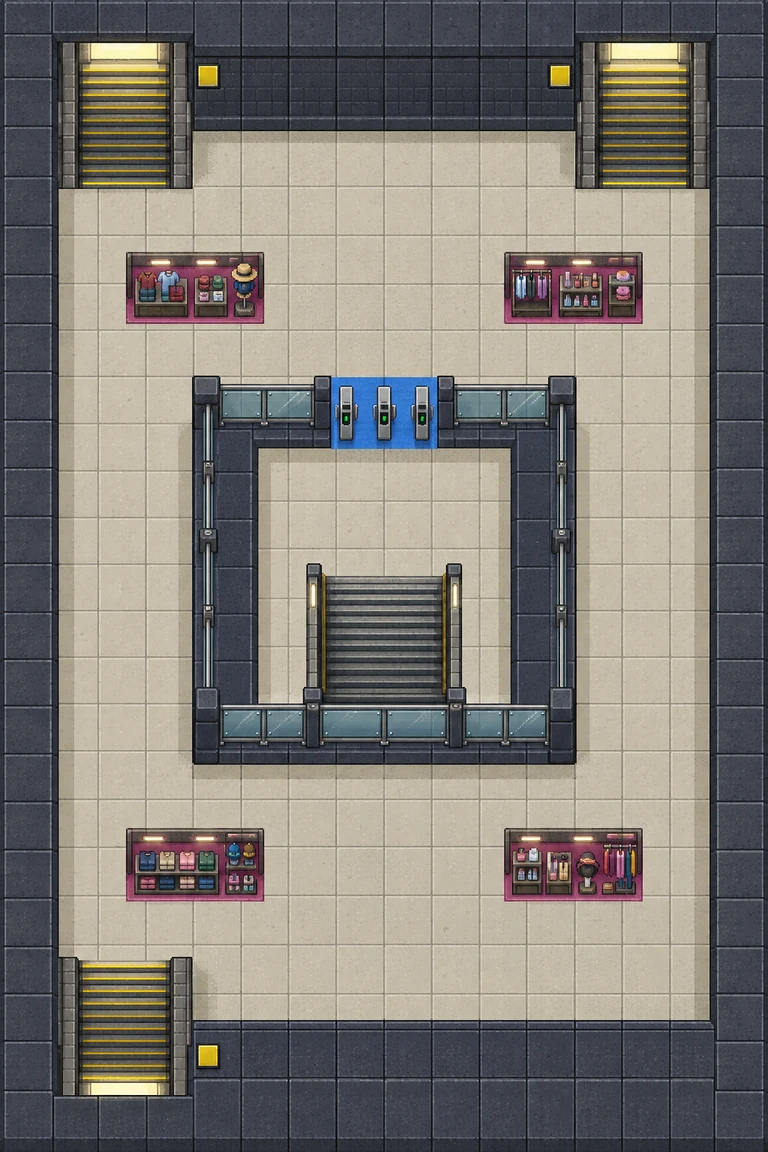
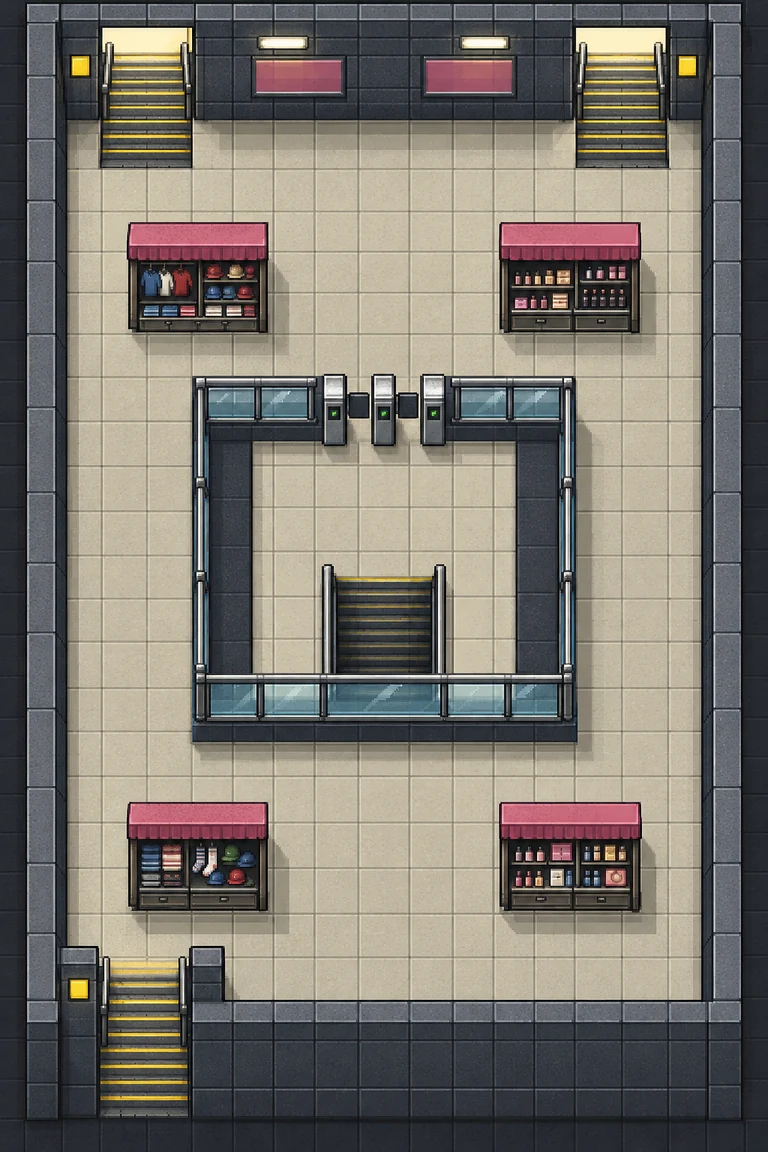
Walking test: maps redrawn in a 3/4 top-down view, four-frame walk cycles

diff --git a/docs/walk/main.js b/docs/walk/main.js
@@ -15,11 +15,13 @@ const canvas = $("map"), ctx = canvas.getContext("2d");
 const COLS = 12, ROWS = 18, TILE = canvas.width / COLS;
 const SPEED = 5.5;          // 1초에 걷는 칸
 const WRONG_MS = 2600;      // 틀린 출구의 바깥을 보여 주는 동안
+const FRAMES = 4, FRAME_MS = 130, STAND = 1;   // 걷는 동작의 컷 수, 한 컷의 길이, 서 있을 때의 컷
 
 const load = (src) => new Promise((done) => { const image = new Image(); image.onload = () => done(image); image.onerror = () => done(null); image.src = src; });
 const art = {
   station: await load("art/station.webp"), street: await load("art/street.webp"),
-  down: await load("art/yui-down.png"), up: await load("art/yui-up.png"), side: await load("art/yui-side.png"),
+  // 걷는 동작. 한 장에 네 컷이 가로로 놓여 있다: 한 발 내딛기, 두 발 모음, 다른 발 내딛기, 두 발 모음.
+  down: await load("art/walk-down.png"), up: await load("art/walk-up.png"), side: await load("art/walk-side.png"),
 };
 const params = new URLSearchParams(location.search);
 const showGrid = params.has("grid");
@@ -154,16 +156,17 @@ function draw(now) {
     ctx.setLineDash([]);
   }
 
-  // 유이. 발이 칸의 한가운데 조금 아래에 놓인다. 걸을 때는 두 걸음에 한 번 통통 뛴다.
+  // 유이. 발이 칸의 한가운데 조금 아래에 놓인다. 걸을 때는 네 컷을 차례로 돌린다.
   const sprite = art[state.face === "up" ? "up" : state.face === "down" ? "down" : "side"];
-  const cx = (state.x + 0.5) * TILE, feet = (state.y + 0.85) * TILE - (state.way.length ? Math.abs(Math.sin(now / 90)) * 5 : 0);
+  const cx = (state.x + 0.5) * TILE, feet = (state.y + 0.85) * TILE;
   ctx.fillStyle = "rgba(0, 0, 0, .28)";
   ctx.beginPath(); ctx.ellipse(cx, (state.y + 0.85) * TILE, TILE * 0.3, TILE * 0.11, 0, 0, Math.PI * 2); ctx.fill();
   if (sprite) {
-    const height = TILE * 1.7, width = (sprite.width / sprite.height) * height;
+    const cut = sprite.width / FRAMES, height = TILE * 1.7, width = (cut / sprite.height) * height;
+    const at = state.way.length ? Math.floor(now / FRAME_MS) % FRAMES : STAND;
     ctx.save(); ctx.translate(cx, feet);
     if (state.face === "right") ctx.scale(-1, 1);   // 옆모습의 그림은 왼쪽을 본다
-    ctx.drawImage(sprite, -width / 2, -height, width, height);
+    ctx.drawImage(sprite, at * cut, 0, cut, sprite.height, -width / 2, -height, width, height);
     ctx.restore();
   } else {
     ctx.fillStyle = "#6ec3f0"; ctx.fillRect(cx - TILE * 0.25, feet - TILE, TILE * 0.5, TILE);

diff --git a/docs/walk/core/walk.js b/docs/walk/core/walk.js
@@ -1,7 +1,7 @@
 // 걷기 시험판의 셈. 화면과 브라우저를 모른다. 지도는 maps.json 에서 받는다.
 // 한 글자가 한 칸이다. 유이는 칸에서 칸으로 걷고, 닿은 칸의 글자가 일을 일으킨다.
 
-export const BLOCKED = "#scC";
+export const BLOCKED = "#scCe";
 export const EXITS = "368";
 
 export const tileAt = (map, x, y) => map.rows[y]?.[x] ?? "#";

diff --git a/docs/art-order-10.md b/docs/art-order-10.md
@@ -13,7 +13,7 @@
 |---|---|---|
 | `station` | 명동역 지하 대합실의 지도. 1024×1536(세로) | 배치도 `station-plan.png` |
 | `street` | 명동 거리의 지도. 1024×1536(세로) | 배치도 `street-plan.png` |
-| `yui-walk` → `yui-down`, `yui-up`, `yui-side` | 유이의 앞모습, 뒷모습, 옆모습. 자홍 바탕의 한 장을 세로로 셋으로 잘랐다 | `yui-j1.png` |
+| `yui-walk` | 유이의 앞모습, 뒷모습, 옆모습의 선 모습. 걷는 동작(3-1절)의 참고 그림으로 썼고 게임에는 걷는 동작을 쓴다 | `yui-j1.png` |
 
 ## 2. 배치도를 넣어 지도를 받는 법
 
@@ -33,6 +33,25 @@
 | 유이가 `yui-j1` 과 같은 아이인가 | 그렇다. 하늘색 겉옷, 꿀빛 단발, 빨간 머리핀과 배낭과 운동화 |
 | 옆모습이 오른쪽을 보는가 | **아니다.** 왼쪽을 보고 왔다. 게임이 오른쪽으로 갈 때 뒤집어 쓴다 |
 | 걷는 동작이 있는가 | 없다. 선 모습 셋뿐이고, 걸을 때는 게임이 통통 뛰게 한다. 걷는 동작은 시험판이 쓸 만하다고 정해지면 주문한다 |
+
+## 3-1. 같은 날 다시 받은 것: 시점과 걷는 동작
+
+**지도 두 장을 비스듬한 탑뷰로 다시 받았다.** 사용자가 처음의 역 지도를 보고 짚었다: "이건 쿼터뷰도 아니고, 탑뷰도 아니고, 어느 나라 어느 시점 뷰야?" 바닥과 벽은 도면처럼 바로 위에서 본 것이고 가게와 개찰기와 유이는 정면에서 본 것이라 어긋나 있었다. 처음의 주문이 "배치도를 한 칸도 옮기지 말고"만 세게 적고 시점은 "바로 위에서 조금 비스듬히"라고만 적은 탓이다.
+
+새 앞머리(`assets/codex/order10/_head2.txt`)는 시점을 맨 앞에 적는다. 뼈대는 이렇다.
+
+- 옛 16비트 RPG의 비스듬한 탑뷰(3/4 뷰). 카메라가 아래쪽(남쪽) 하늘에서 위쪽(북쪽)을 비스듬히 내려다본다.
+- 바닥은 정사각 격자 그대로. 쿼터뷰(마름모 타일)가 아니다.
+- 높이가 있는 것은 윗면과 남쪽을 향한 앞면이 함께 보인다. 위쪽 벽은 벽면이 높게 서 있고, 아래쪽 벽은 윗면만 얇게 보인다.
+- 따로 선 것(가게, 수레, 개찰기, 난간)은 상자꼴이고 아래쪽 바닥에 짧은 그림자가 진다.
+- 올라갈 캐릭터가 2등신의 정면 모습이라는 것을 적었다.
+- 배치도는 "어느 칸이 막혀 있고 어느 칸이 바닥인지"를 지키라는 말로 낮추었다.
+
+받은 두 장(`station2`, `street2`)은 시점이 맞다. 대신 물건이 배치도에서 반 칸에서 한 칸 반쯤 옮겨 왔다. 역은 그대로 맞았고, 거리는 수레 하나와 출구의 자리가 달라 `maps.json` 의 칸을 그림에 맞추어 고쳤다. **시점을 세게 적으면 배치가 조금 풀린다. 그림을 받은 뒤 `?grid` 로 겹쳐 보고 칸을 그림에 맞춘다.**
+
+남은 흠: 캐릭터와 물건의 앞뒤를 가리지 않는다. 가게의 차양이나 출구의 지붕 바로 위쪽 칸에 서면 유이의 발이 차양 위에 얹혀 보인다.
+
+**걷는 동작을 받았다**(사용자: "걷는 동작 그림 주문해"). 방향마다(앞, 뒤, 옆) 한 장에 네 컷이다: 한 발 내딛기, 두 발 모음, 다른 발 내딛기, 두 발 모음. 선 모습을 방향마다 잘라 참고 그림으로 넣었다(`ref-down.png` 들). 석 장 모두 한 번에 왔다. 자홍 바탕을 지우고, 컷마다 머리의 가운데와 발바닥을 맞추어 `docs/walk/art/walk-down.png`, `walk-up.png`, `walk-side.png` 로 두었다(높이 192). 선 모습 석 장은 지웠고, 서 있을 때는 둘째 컷을 쓴다. 흠: 앞모습의 셋째 컷에서 수첩이 반대 손으로 갔고, 옆모습의 첫째 컷에서 수첩이 분홍빛으로 작게 왔다. 걸을 때는 눈에 띄지 않는다.
 
 ## 4. 다시 주문하는 법
 

diff --git a/docs/넘김.md b/docs/넘김.md
@@ -23,7 +23,8 @@
 - 짜임: `docs/walk/maps.json`(한 글자가 한 칸, 12칸 × 18칸, 지도 하나가 세로 화면에 통째로 보인다), `core/walk.js`(길 찾기, 칸이 일으키는 일. 화면을 모른다), `main.js`(캔버스), `text.js`(네 나라 말). 맞는 출구와 할머니의 출구는 `docs/trip/data/fares.json` 에서 읽는다. 시험은 `node --test tests/walk.test.mjs` 8개.
 - 그림: `docs/art-order-10.md`. 칸을 색 네모로 칠한 배치도를 참고 그림으로 넣으면 그 배치 그대로 지도가 온다. 이 법이 통했다.
 - 지어낸 것: 역 안과 거리의 배치 모두. 실제 명동역의 구조를 보지 않았다. 화면 아래에 그렇게 적었다.
-- 아직 없는 것: 걷는 동작의 그림(선 모습 셋이 통통 뛴다), 다른 사람들, 지갑, 표 사기, 수첩, 저장, 지도보다 큰 곳을 따라가는 화면. `docs/trip/` 과 이어져 있지 않다.
+- 같은 날 고친 것: 지도를 비스듬한 탑뷰(3/4 뷰)로 다시 받았다(사용자: "이건 쿼터뷰도 아니고, 탑뷰도 아니고, 어느 나라 어느 시점 뷰야?"). 걷는 동작을 방향마다 네 컷 받아 넣었다(사용자: "걷는 동작 그림 주문해"). **지도를 주문할 때는 시점을 맨 앞에 적는다**(`docs/art-order-10.md` 3-1절).
+- 아직 없는 것: 캐릭터와 물건의 앞뒤 가리기, 다른 사람들, 지갑, 표 사기, 수첩, 저장, 지도보다 큰 곳을 따라가는 화면. `docs/trip/` 과 이어져 있지 않다.
 - 확인한 것: 너비 375의 브라우저에서 진짜 누르기로 6번 출구 → 거리 → 수레까지 걸었다(25걸음). 틀린 출구 둘은 코드로 걸려 보았다. 손전화의 손가락으로는 해 보지 않았다.
 
 ### 둘째 쪽: 서울역 → 명동 (2026.10.11)
